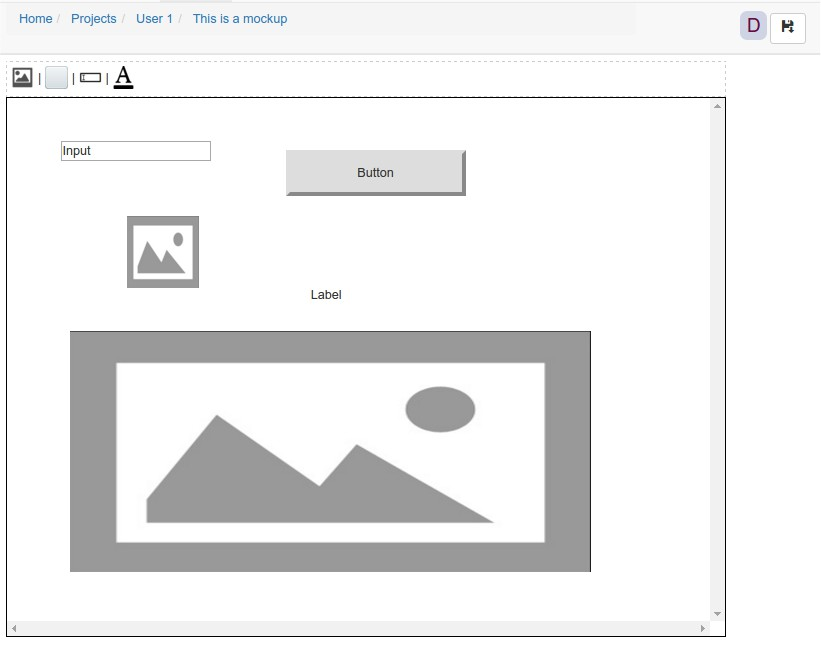
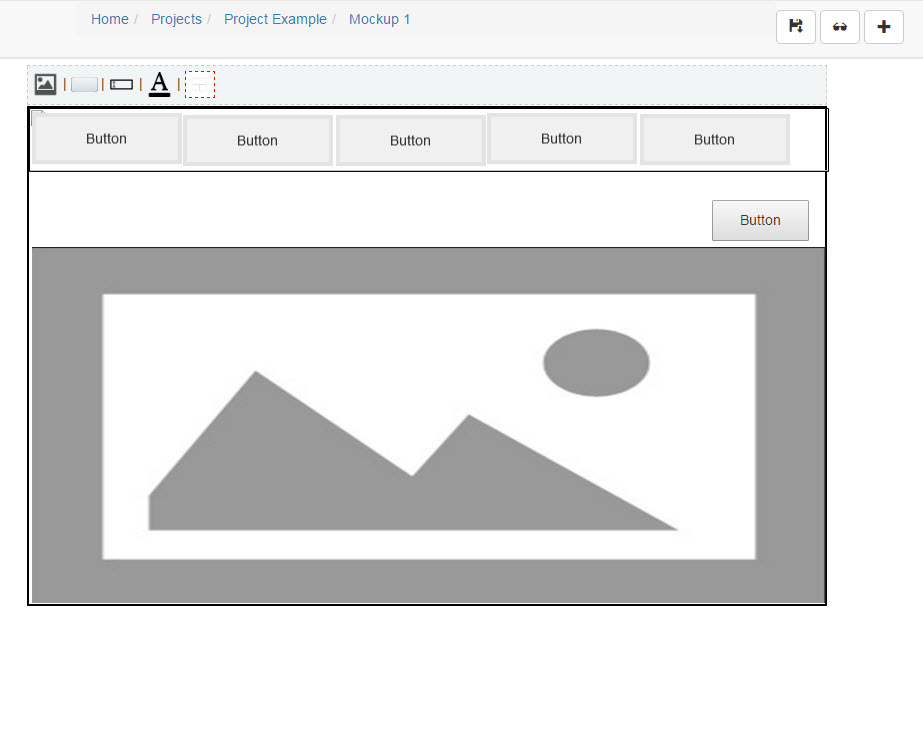
Added backgroud image and color Fixed look and feel of the mockupero

diff --git a/app/views/project.html b/app/views/project.html
@@ -38,18 +38,18 @@
 </button></h3>
     <div class="row">
         <div class="col-sm-4 col-md-4" ng-repeat="mockup in project.mockups track by $index">
-            <div class="thumbnail">
-                <img src="http://localhost:1337/images/{{mockup.id}}.png" height="30px" alt="...">
+            <div class="thumbnail" style="height: 210px;">
                 <div class="caption">
                     <h4>{{mockup.name}}</h4>
-                    <p>{{mockup.description}}</p>
                     <p>
-                        <a href="#/project/{{projectId}}/mockup/{{mockup.id}}" class="btn btn-xs btn-primary" role="button">View</a>
-                        <a href="#/project/{{projectId}}/mockup/edit/{{mockup.id}}" class="btn btn-xs btn-default" role="button" ng-if="editMode">Edit</a>
-                        <a href="#/project/{{projectId}}/mockup-edit-design/{{mockup.id}}" class="btn btn-xs btn-info" role="button">Design</a>
-                        <a href="#/project/{{projectId}}/mockup-suggest/{{mockup.id}}" class="btn btn-xs btn-info" role="button">Suggest</a>
-                        <a href="" ng-click="deleteMockup(mockup.id)" class="btn btn-xs btn-danger" role="button">Delete</a>
+                        <a href="#/project/{{projectId}}/mockup/{{mockup.id}}"><span class="glyphicon glyphicon-folder-open"></span></a>
+                        <a href="#/project/{{projectId}}/mockup/edit/{{mockup.id}}" ng-if="editMode"><span class="glyphicon glyphicon-edit"></span></a>
+                        <a href="#/project/{{projectId}}/mockup-edit-design/{{mockup.id}}"><span class="glyphicon glyphicon-pencil"></span></a>
+                        <a href="" ng-click="deleteMockup(mockup.id)" role="button"><span class="glyphicon glyphicon-remove"></span></a>
                     </p>
+                </div>
+                <div style="">
+                    <img src="http://localhost:1337/images/{{mockup.id}}.png" class="col-sm-12 col-md-12" alt="...">
                 </div>
             </div>
         </div>

diff --git a/app/views/workflow.html b/app/views/workflow.html
@@ -1,6 +1,6 @@
-<h3 class="col-sm-12">Workflow </h3>
-<a class="col-sm-12" href="{{workflow.parentUrl}}">{{workflow.name}}</a>
-<div class="col-sm-12" style="padding: 0;">
+<h3 class="container">Workflow </h3>
+<br/>
+<div class="container" style="padding: 0; background-color: white">
     <div class="alert alert-danger" role="alert" ng-show="err">
         <span class="glyphicon glyphicon-exclamation-sign" aria-hidden="true"></span>
         <span class="sr-only">Error: </span> {{err}}
@@ -15,11 +15,13 @@
         </div>
     </div>
 </div>
-<div class="container">
+<br/>
+<br/>
+<div class="container" style="background: white;">
     <h3>
-    	<button type="button" class="btn btn-default" aria-label="Left Align"  data-toggle="modal" data-target="#previousWorkflow" >
-    		<span class="glyphicon glyphicon-plus" aria-hidden="true"></span>
-    	</button>
+        <button type="button" class="btn btn-default" aria-label="Left Align"  data-toggle="modal" data-target="#previousWorkflow" >
+            <span class="glyphicon glyphicon-plus" aria-hidden="true"></span>
+        </button>
     </h3> Previous Workflows
     <table class="table table-condensed">
         <thead>
@@ -39,11 +41,13 @@
         </tbody>
     </table>
 </div>
-<div class="container">
+<br/>
+<br/>
+<div class="container" style="background: white;">
     <h3>
-    	<button type="button" class="btn btn-default" aria-label="Left Align"  data-toggle="modal" data-target="#nextWorkflow" >
-    		<span class="glyphicon glyphicon-plus" aria-hidden="true"></span>
-    	</button>
+        <button type="button" class="btn btn-default" aria-label="Left Align"  data-toggle="modal" data-target="#nextWorkflow" >
+            <span class="glyphicon glyphicon-plus" aria-hidden="true"></span>
+        </button>
     </h3> Next Workflows
     <table class="table table-condensed">
         <thead>

diff --git a/app/index.html b/app/index.html
@@ -17,7 +17,7 @@
     <script src="bower_components/socket.io-client/socket.io.js"></script>
     <script src="bower_components/sails.io.js/dist/sails.io.js"></script>
     <script type="text/javascript">
-        io.sails.url = 'http://localhost:1337';
+    io.sails.url = 'http://localhost:1337';
     </script>
     <!-- endbuild -->
 </head>
@@ -33,10 +33,19 @@
     <![endif]-->
     <!-- Add your site or application content here -->
     <header-side> </header-side>
-    <div class="container">
-        <div ng-view=""></div>
+    <div style="position: fixed; width: 100%; z-index: -1; opacity: 0.7; top: 215px;">
+        <center>
+            <img src="static/banner.jpg" style="z-index: -1; ">
+        </center>
     </div>
-    <footer-side> </footer-side>
+    <div style="z-index: -1;  position: absolute; width: 100%; opacity: 0.7; height: 950px; background: #edfcee; top: 125px;">
+    </div>
+    <div style="">
+        <div class="container" style="min-height: 700px;">
+            <div ng-view=""></div>
+        </div>
+        <footer-side> </footer-side>
+    </div>
     <!-- Google Analytics: change UA-XXXXX-X to be your site's ID -->
     <script>
     ! function(A, n, g, u, l, a, r) {

diff --git a/app/views/templates/userList.html b/app/views/templates/userList.html
@@ -1,16 +1,17 @@
-<div class="col-sm-12" style="padding: 1px;">
+<div class="container" style="padding: 1px;">
     <div class="alert alert-danger" role="alert" ng-show="err">
         <span class="glyphicon glyphicon-exclamation-sign" aria-hidden="true"></span>
         <span class="sr-only">Error:</span> {{err}}
     </div>
-    <div class="col-md-2">
-        <button type="button" class="btn btn-default" ng-click="addUser()" data-toggle="tooltip" title="Popover title">
+    <div class="col-md-5">
+        <h3> <button type="button" class="btn btn-default" ng-click="addUser()" data-toggle="tooltip" title="Popover title">
             <span class="glyphicon glyphicon-plus" aria-hidden="true"></span>
-        </button>
+        </button> Users </h3>
     </div>
-    <br/>
-    <br/>
-    <table class="table table-condensed">
+</div>
+<br />
+<div class="container">
+    <table class="table table-condensed" style="background-color: white;">
         <thead>
             <tr>
                 <th>FirstName</th>

diff --git a/app/views/workflowlist.html b/app/views/workflowlist.html
@@ -1,16 +1,17 @@
-<div class="col-sm-12" style="padding: 1px;">
+<div class="container">
     <div class="alert alert-danger" role="alert" ng-show="err">
         <span class="glyphicon glyphicon-exclamation-sign" aria-hidden="true"></span>
         <span class="sr-only">Error:</span> {{err}}
     </div>
-    <div class="col-md-2">
-        <button type="button" class="btn btn-default" ng-click="addWorkflow()" data-toggle="tooltip" title="Popover title">
+    <div class="col-md-5">
+        <h3> <button type="button" class="btn btn-default" ng-click="addWorkflow()" data-toggle="tooltip" title="Popover title">
             <span class="glyphicon glyphicon-plus" aria-hidden="true"></span>
-        </button>
+        </button> Workflows </h3>
     </div>
-    <br/>
-    <br/>
-    <table class="table table-condensed">
+</div>
+<br />
+<div class="container" style="background-color: white;">
+        <table class="table table-condensed">
         <thead>
             <tr>
                 <th>Status</th>

diff --git a/app/views/mockup-edit-design.html b/app/views/mockup-edit-design.html
@@ -30,7 +30,7 @@
     </div>
     <div id="alert_message" style="position: absolute; top: 91px; right: 1px; background: green; z-index: 150; "></div>
 </div>
-<div style="height: 40px; background: #f0f5f5; position: absolute; top: 115px; border: 1px dashed #ccc; width: {{(editObject.width < 400 ? 400 : editObject.width)}}px; padding: 5px; left: {{editObject.width < 500 ? 100: (1000/editObject.width * 200)}}px;" ng-if="editMode">
+<div style="height: 40px;  background: #f9f9f9; position: absolute; top: 115px; border: 1px dashed #ccc; width: {{(editObject.width < 400 ? 400 : editObject.width)}}px; padding: 5px; left: {{editObject.width < 500 ? 100: (1000/editObject.width * 200)}}px;" ng-if="editMode">
     <div style="display: inline-block; width: 30px;">
         <img height="25px" ng-click="addImage()" src="static/icons/image.png" alt="..."  data-toggle="tooltip" title="Add Image"/>
     </div>|

diff --git a/app/views/mockup.html b/app/views/mockup.html
@@ -6,6 +6,6 @@
 </div>
 <br>
 <p style="text-align:center;">
-    <img style="padding: 0; width: {{viewObject.width > 950 ? 950 : viewObject.width}}px; " src="http://localhost:1337/images/{{viewObject.id}}.png" alt="...">
+    <img style="padding: 0; width: {{viewObject.width > 950 ? 950 : viewObject.width}}px; background: #f9f9f9;" src="http://localhost:1337/images/{{viewObject.id}}.png" alt="...">
 </p>
 <comment relation="{{mockupId}}"></comment>

diff --git a/app/views/templates/viewMockup.html b/app/views/templates/viewMockup.html
@@ -5,7 +5,6 @@
         </div>
     </div>
     <h3 class="col-sm-12">{{viewObject.title}} </h3>
-    <a class="col-sm-12" href="{{viewObject.parentUrl}}">{{viewObject.parentName}}</a>
     <div class="col-sm-12" style="padding: 0;">
         <div class="thumbnail" style="height: 199px;">
             <div class="caption" class="col-sm-8">

diff --git a/app/views/project-edit.html b/app/views/project-edit.html
@@ -1,4 +1,6 @@
-<div>
+<div class="container">
+    <h3>Project Edit</h3>
+    <br />
     <form role="form" name="editProjectForm">
         <div class="alert alert-danger" role="alert" ng-show="err">
             <span class="glyphicon glyphicon-exclamation-sign" aria-hidden="true"></span>

diff --git a/app/views/user-edit.html b/app/views/user-edit.html
@@ -1,4 +1,7 @@
-<div>
+
+<div class="container">
+    <h3> User Edit</h3>
+    <br />
     <div class="alert alert-danger" role="alert" ng-show="err">
         <span class="glyphicon glyphicon-exclamation-sign" aria-hidden="true"></span>
         <span class="sr-only">Error: </span> {{err}}

diff --git a/app/views/workflow-edit.html b/app/views/workflow-edit.html
@@ -1,4 +1,7 @@
-<div>
+<div class="container">
+<h3>Workflow Edit</h3>
+<br/>
+<br/>
     <form role="form" name="workflowForm">
         <div class="alert alert-danger" role="alert" ng-show="err">
             <span class="glyphicon glyphicon-exclamation-sign" aria-hidden="true"></span>

diff --git a/app/views/user.html b/app/views/user.html
@@ -1,5 +1,8 @@
 <h3 class="col-sm-12"> User View </h3>
-<a class="col-sm-12" href="/#/userlist/">User List</a>
+<br/>
+<br/>
+<br/>
+<br/>
 <div class="col-sm-12">
     <div class="thumbnail" style="height: 300px;">
         <div class="caption" class="col-sm-8">
